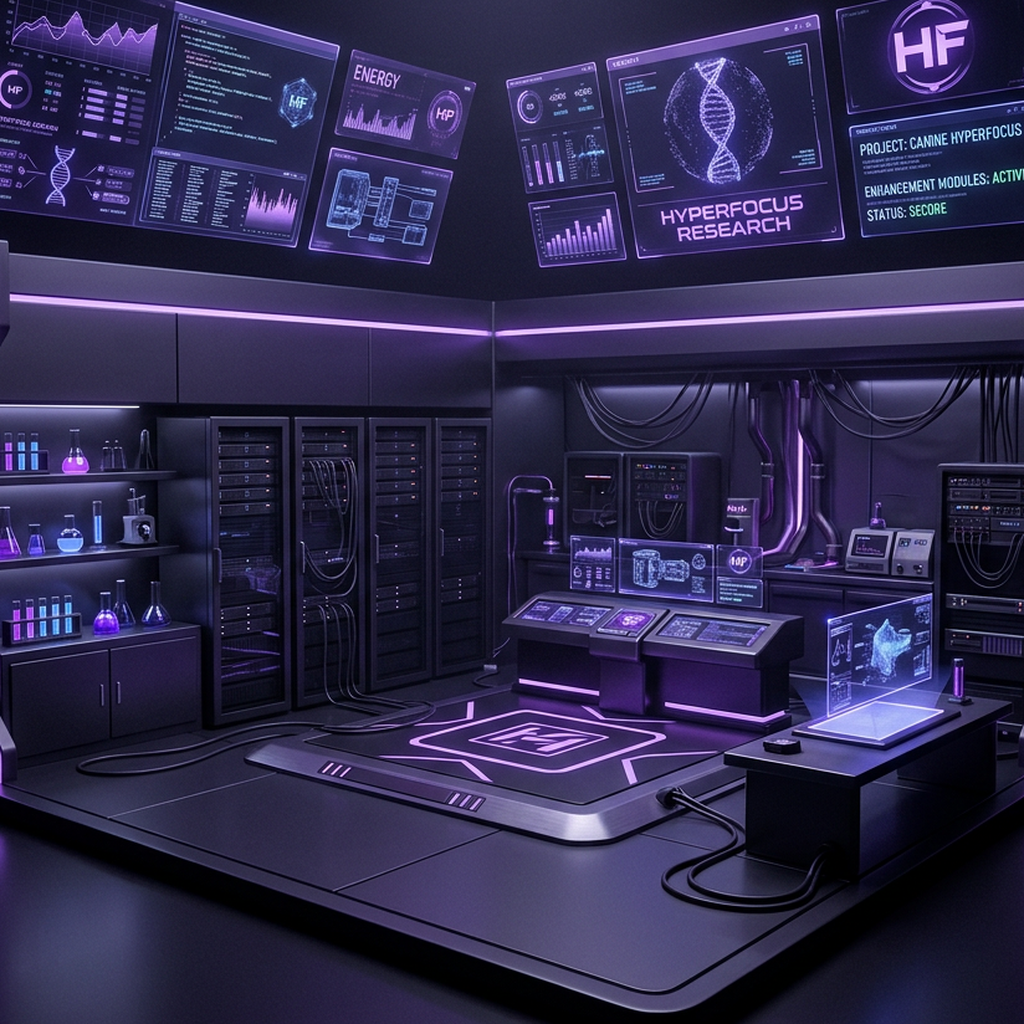
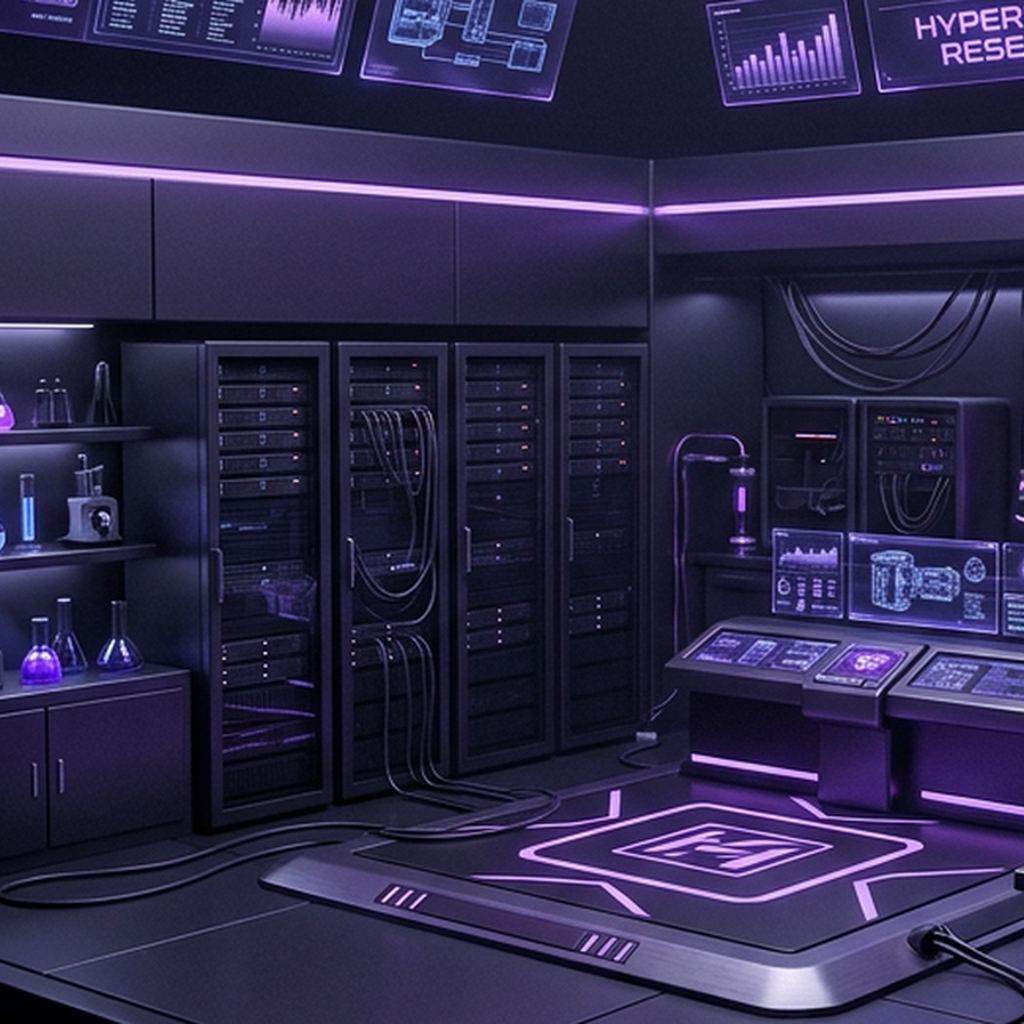
Reconcile the pet portrait's cosmetic band budget, re-crop 4 backgrounds (#98)
Bro flagged Cosmic Vortex looking wrong after the last three PRs
(#95-#97). Measured the actual rendered box on the live page instead
of guessing: getBoundingClientRect showed the background's inset was
exactly symmetric (23px/8% on all four sides) -- so it wasn't a
positioning bug. The real defect was upstream of that: three separate
PRs each picked a background inset, a frame ring geometry, and a pet
padding independently, without checking them against each other.

Doing the math: frame art's ring sits at 10%-19% of its own canvas
(gen_frame_overlays_batch4.py). At bg inset 8%, the background was
only actually visible in the ~2% sliver before the frame's ring took
over. At pet padding 16%, the pet's opaque photo was silently
covering the frame ring's own inner 3% (16% < 19%), cropping the ring
shorter than it was drawn. Any background art was going to look like
an uneven scrap regardless of composition, because there was barely
any band left for it.

Reconciled the three numbers as one ordered set: bg inset 8% -> 3%
(gives it a real ~7% band before the frame ring starts), pet padding
16% -> 20% (clears the frame ring's full 19% inner edge instead of
overlapping it).

That widened band then exposed a second, separate problem: several
background images aren't radially uniform near their own edges, so a
wider ring made their unevenness more visible, not less. Measured it
(avg brightness at 8 points around the visible ring) instead of
[…]

diff --git a/frontend/src/components/pets/PetPortrait.tsx b/frontend/src/components/pets/PetPortrait.tsx
@@ -185,7 +185,16 @@ export function PetPortrait({
             // lg/sm the box is already tiny (48-80px); an inset there
             // reads as a mushy floating square instead of a card, so
             // those keep the full-bleed, full-opacity fill.
-            isHero ? 'inset-[8%] opacity-90' : 'inset-0 h-full w-full'
+            //
+            // 3%, not 8% (the original guess) — this has to be reconciled
+            // against frame art's own fixed ring geometry (10%-19% of its
+            // canvas, from gen_frame_overlays_batch4.py), not picked in
+            // isolation. At 8% the background was only actually visible
+            // in the ~2% sliver before the frame's ring took over, which
+            // read as an uneven scrap regardless of the source art. 3%
+            // gives it a real ~7% band to read as a scene plate before
+            // the ring starts.
+            isHero ? 'inset-[3%] opacity-90' : 'inset-0 h-full w-full'
           }`}
         />
       )}
@@ -222,11 +231,15 @@ export function PetPortrait({
         className={`relative h-full w-full ${s.rounded} motion-safe:animate-idle-breath ${
           (bg || frame)
             // Hero only: real inward padding so a behind-pet frame's ring
-            // (and an inset background) actually show in the gap. At
-            // lg/sm (48-80px icons) that padding would shrink the pet to
-            // an ~32px core — not worth it where this layering nuance
+            // (and an inset background) actually show in the gap. 20%,
+            // not 16% -- frame's ring runs to 19% of its own canvas, and
+            // at 16% the pet's opaque photo was silently covering the
+            // ring's own inner 3%, cropping it shorter than its art was
+            // drawn. 20% clears it with a hair to spare. At lg/sm
+            // (48-80px icons) that padding would shrink the pet to an
+            // ~32px core -- not worth it where this layering nuance
             // barely reads; keep the old razor-thin margin there instead.
-            ? (isHero ? 'object-contain p-[16%]' : 'object-contain p-1')
+            ? (isHero ? 'object-contain p-[20%]' : 'object-contain p-1')
             : 'object-cover'
         }`}
       />
